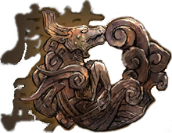
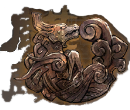
Updated random_num.js. Updated the images qilin_small and qinglong_small  .png files.

diff --git a/js/random_num.js b/js/random_num.js
@@ -22,12 +22,14 @@ Randomly generate a number between 1 and 11, each number representing a weapon f
 function rand_num(limit) {
     /*
     Generate a random number from 1 to the upper limit provided.
-
-    Parameters: limit: This is the upper limit, we will add 1 to this because Math.random() is excluding the upper limit.
+    
     ==========
+    Parameters: 
+        - [num] limit: This is the upper limit, we will add 1 to this because Math.random() is excluding the upper limit.
 
-    Return: random number.
     ==========
+    Return: 
+        - [num] random number.
     */
 
     return Math.floor(Math.random() * (limit + 1));
